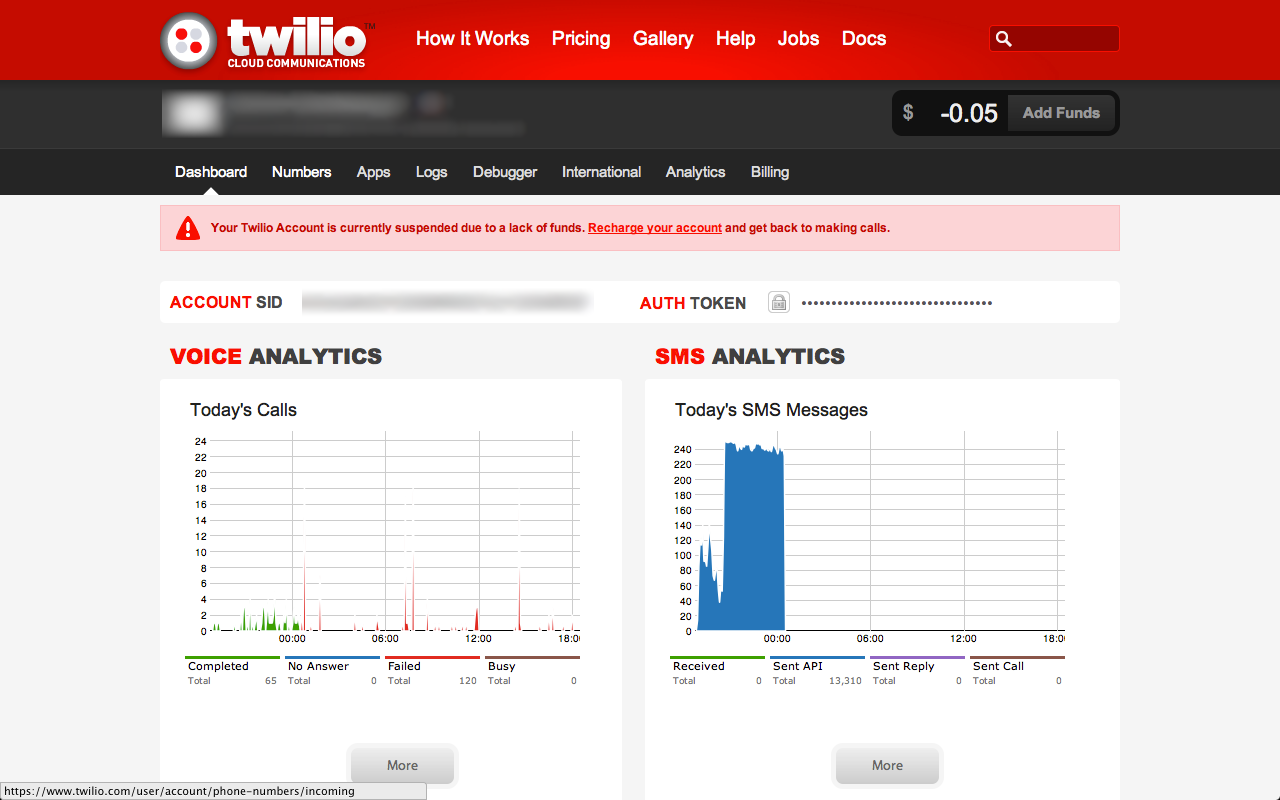
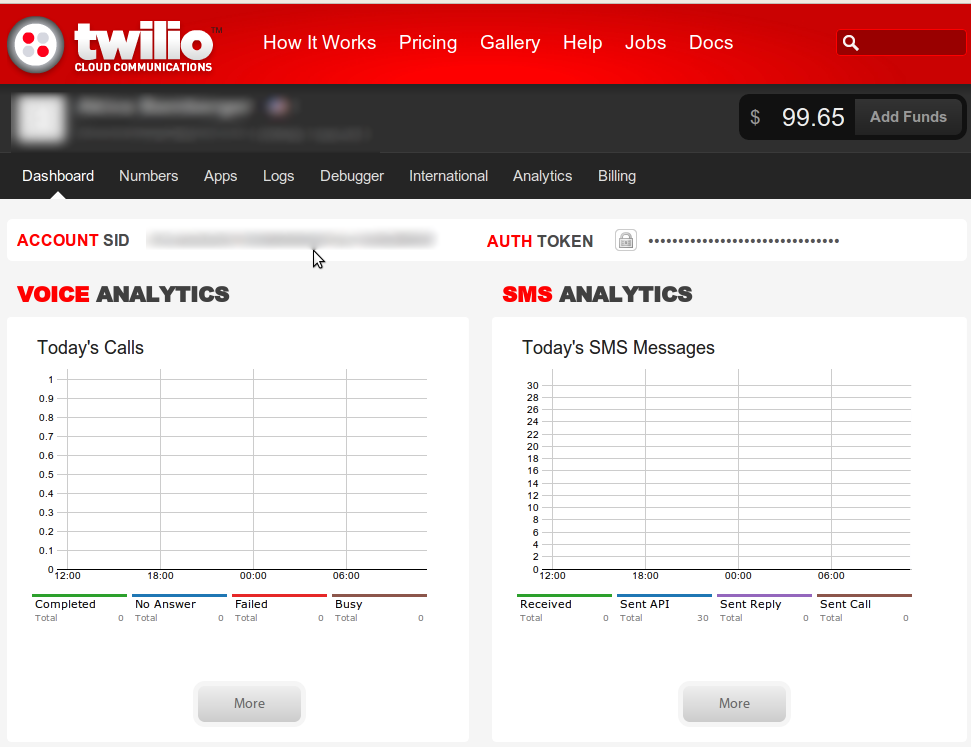
Updated images and txt to reflect changes for Twilio

diff --git a/post/catfacts.html b/post/catfacts.html
@@ -36,7 +36,7 @@ figure figcaption{ width: 600px; padding-top: 25px; margin: auto; position: rela
   <p>Many LOLs were had, and I wanted people to be able to bring out their inner "frackyou". My goal was simple: let users sign up their own friends to receive facts about cats from a "cat fact" service. I was reading reddit on my Macbook, a computer I had never used for web programming before. It was a unique opportunity to start from scratch to build a website without any prior tools. I had no <a href="http://www.eclipse.org/">Eclipse</a>, no <a href="http://www.gimp.org/">GIMP</a>, and a foreign looking <a href="http://smokingapples.com/software/tutorials/mac-terminal-tips/">Terminal</a>. Within a few hours, I was up and running using App Engine, TextMate, Twilio, and a bunch of pics of cats from <a href="http://placekitten.com/">placekitten.com</a>.</p>
   <figure>
     <img src="{{img_folder}}/closing_time.png" />
-    <figcaption>Twilio account without SMS's</figcaption>
+    <figcaption>Twilio account ready to send SMS's</figcaption>
   </figure>
   <p>Building an application that sends or receives texts might seem really hard (some might think you needed an <a href="http://www.asterisk.org/">Asterisk</a> server). Luckily, <a href="http://twilio.com">Twilio</a> exists, making it stupid simple for anybody to build a service that responds to texts or calls (or sends them). (I'll talk about setting that up and using it a bit later).
     <figure>
